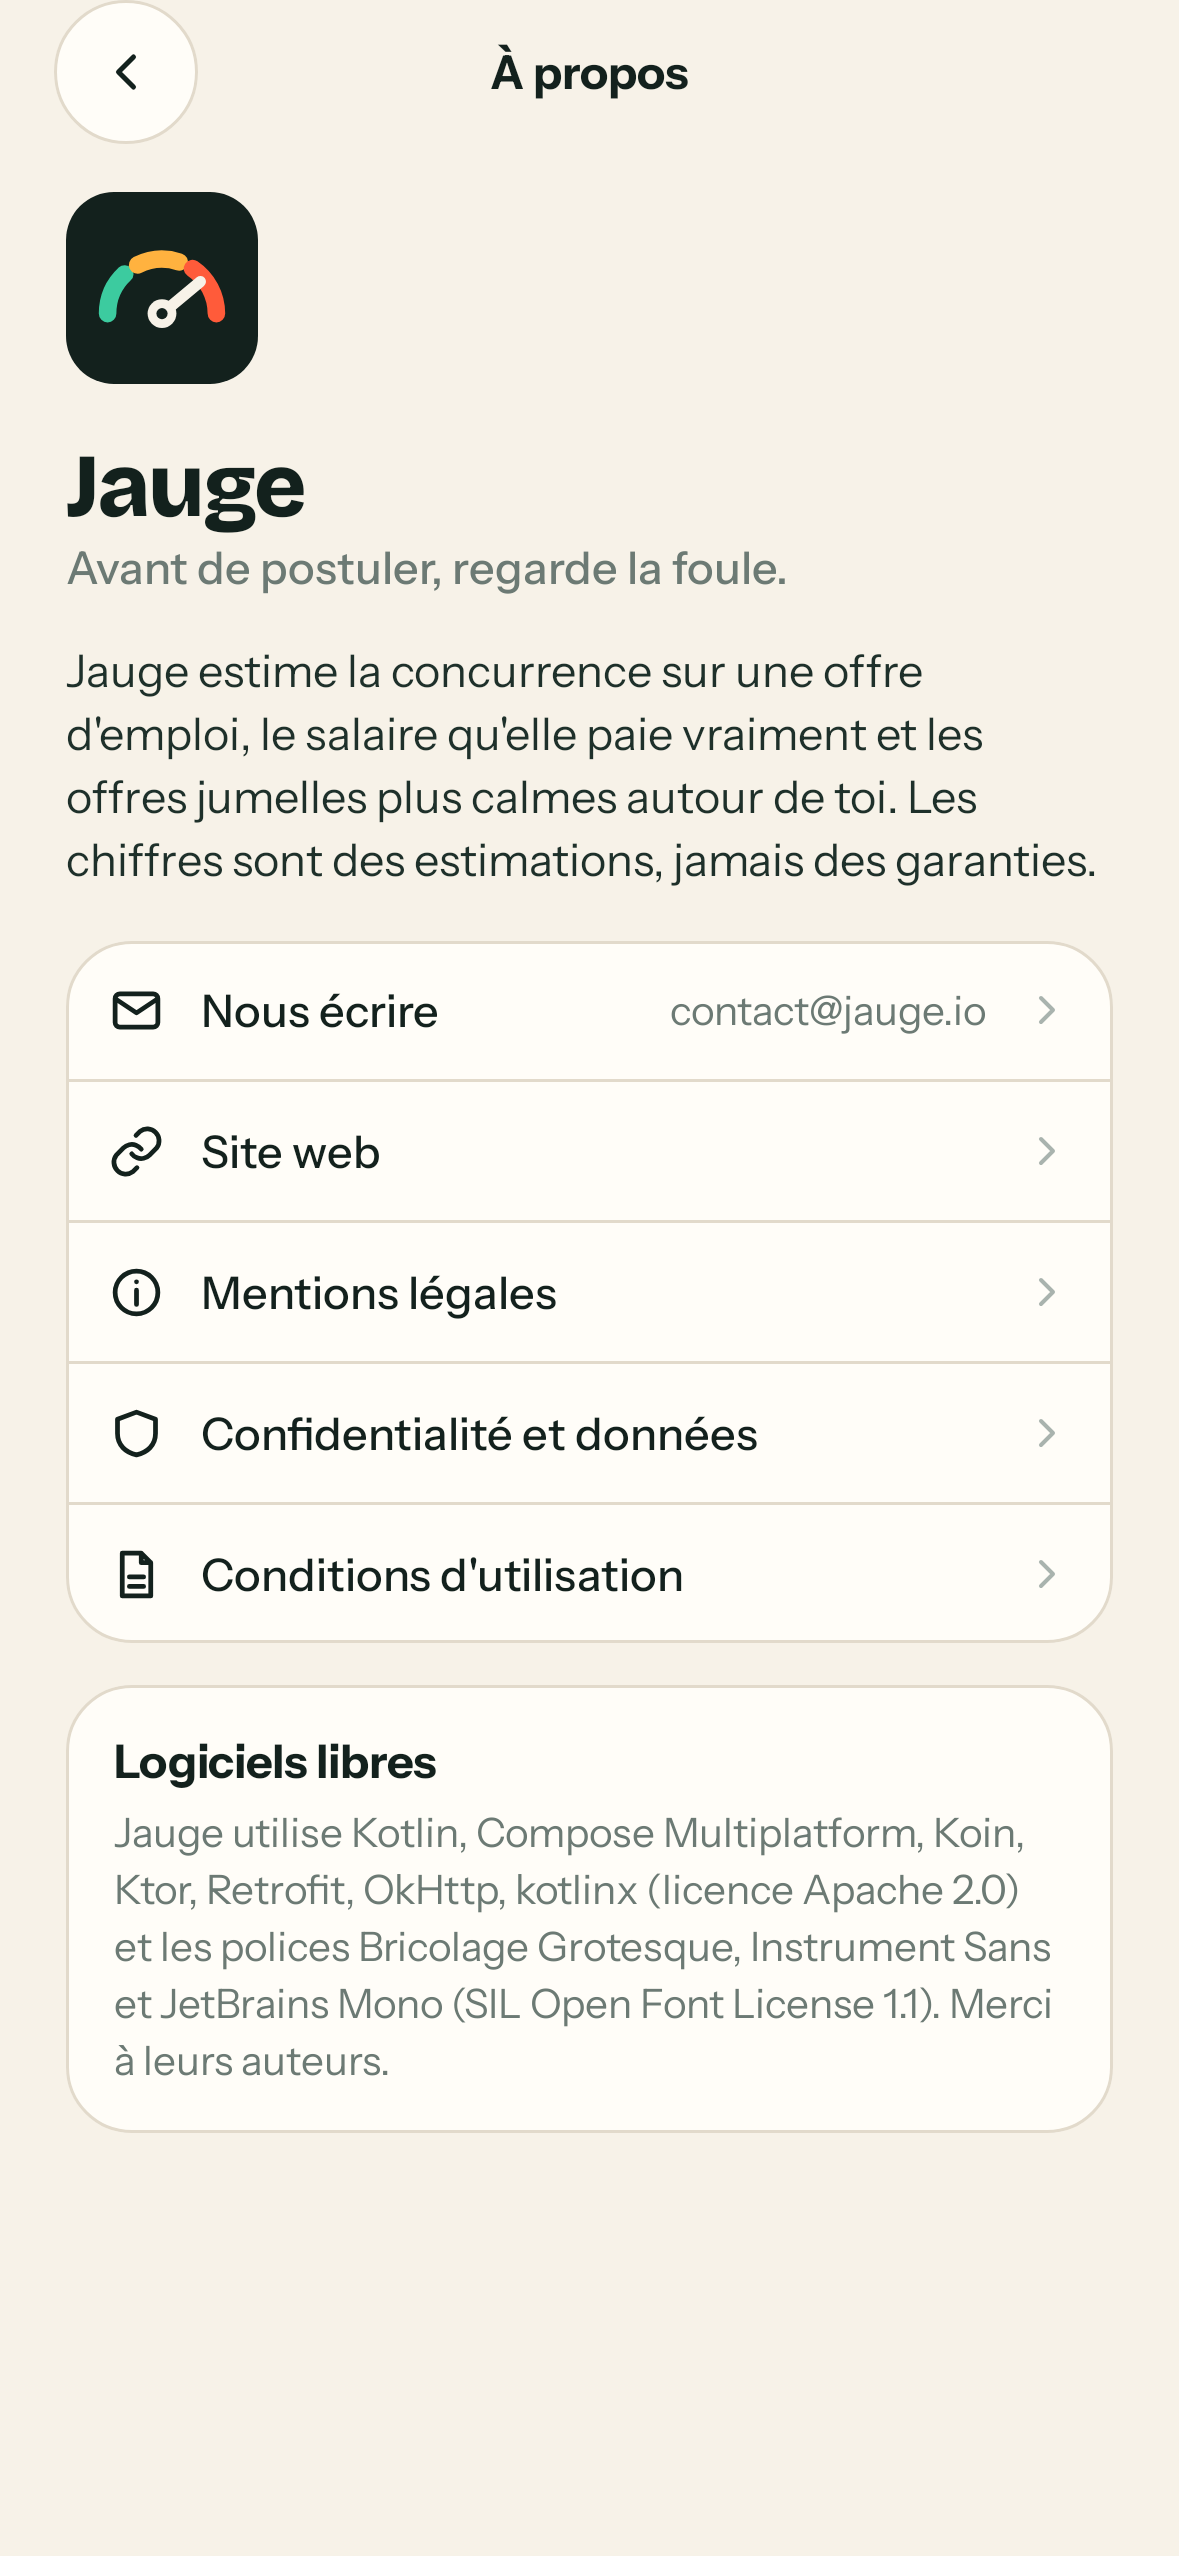
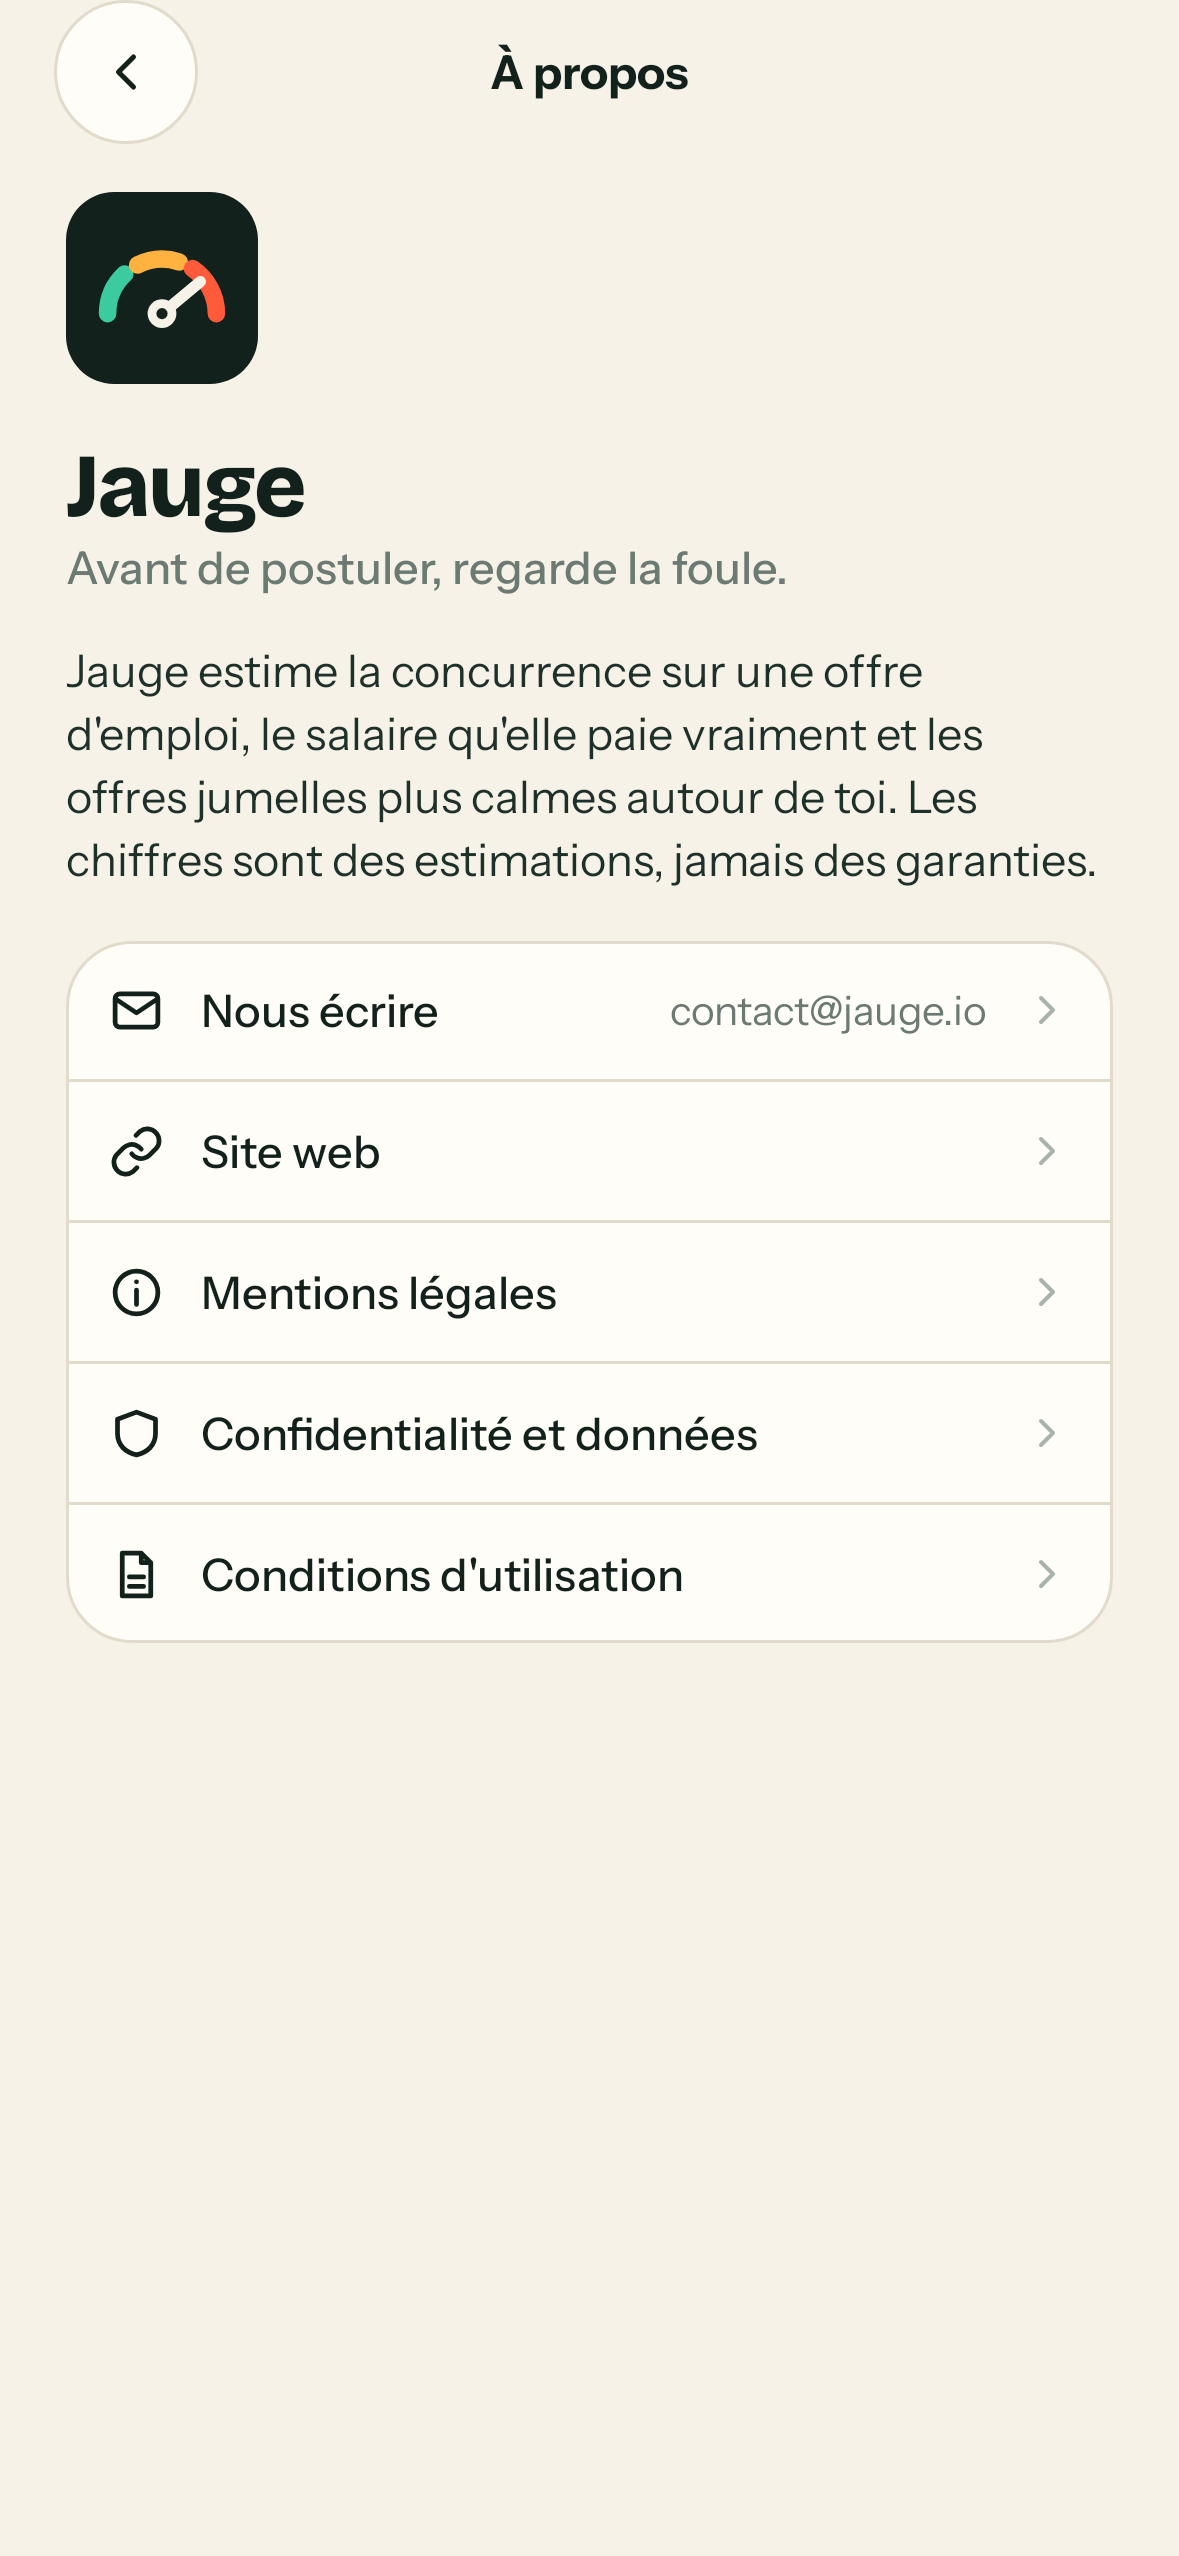
fix: remove technical information from the about screen
The open source licenses card is removed from the about screen and the
notices now ship in a file that is not shown. The about screen shows only
the public version, and the offline indicator no longer mentions the API.

Changed region(s): [[0.0916, 0.68, 0.8855, 0.8345]]

diff --git a/feature/account/src/commonMain/kotlin/io/jauge/feature/account/about/AboutScreen.kt b/feature/account/src/commonMain/kotlin/io/jauge/feature/account/about/AboutScreen.kt
@@ -1,7 +1,6 @@
 package io.jauge.feature.account.about
 
 import androidx.compose.foundation.layout.Column
-import androidx.compose.foundation.layout.fillMaxWidth
 import androidx.compose.foundation.layout.padding
 import androidx.compose.foundation.layout.size
 import androidx.compose.foundation.rememberScrollState
@@ -12,7 +11,6 @@ import androidx.compose.ui.Modifier
 import androidx.compose.ui.platform.LocalUriHandler
 import androidx.compose.ui.text.font.FontWeight
 import androidx.compose.ui.unit.dp
-import io.jauge.core.designsystem.component.JaugeCard
 import io.jauge.core.designsystem.component.JaugeLogo
 import io.jauge.core.designsystem.component.JaugeScreenScaffold
 import io.jauge.core.designsystem.component.RoundIconButton
@@ -25,8 +23,6 @@ import io.jauge.feature.account.resources.Res
 import io.jauge.feature.account.resources.about_app_name
 import io.jauge.feature.account.resources.about_contact
 import io.jauge.feature.account.resources.about_contact_address
-import io.jauge.feature.account.resources.about_licenses_text
-import io.jauge.feature.account.resources.about_licenses_title
 import io.jauge.feature.account.resources.about_tagline
 import io.jauge.feature.account.resources.about_text
 import io.jauge.feature.account.resources.about_title
@@ -40,7 +36,10 @@ import io.jauge.feature.account.resources.profile_terms
 import org.jetbrains.compose.resources.stringResource
 
 /**
- * About Jauge: version, what the app does, contact, legal pages and open source licenses.
+ * About Jauge: version, what the app does, contact and legal pages.
+ *
+ * No technical information is shown here (libraries, build numbers, identifiers): the notices required by the
+ * licenses of the libraries ship with the app in `third_party_notices.txt` (resources of `composeApp`), not on screen.
  *
  * @param onBack back button.
  * @param onOpenLegalNotice legal notice.
@@ -52,7 +51,7 @@ fun AboutScreen(onBack: () -> Unit, onOpenLegalNotice: () -> Unit, onOpenPrivacy
     val colors = JaugeTheme.colors
     val typography = JaugeTheme.typography
     val uriHandler = LocalUriHandler.current
-    val version = rememberAppVersion()
+    val version = displayVersion(rememberAppVersion())
     val contact = stringResource(Res.string.about_contact_address)
     val website = stringResource(Res.string.about_website_address)
     JaugeScreenScaffold(
@@ -94,15 +93,15 @@ fun AboutScreen(onBack: () -> Unit, onOpenLegalNotice: () -> Unit, onOpenPrivacy
                 ),
                 modifier = Modifier.padding(top = 18.dp),
             )
-            JaugeCard(modifier = Modifier.fillMaxWidth().padding(top = 14.dp)) {
-                Text(text = stringResource(Res.string.about_licenses_title), style = typography.bodyStrong, color = colors.textPrimary)
-                Text(
-                    text = stringResource(Res.string.about_licenses_text),
-                    style = typography.bodySmall,
-                    color = colors.textSecondary,
-                    modifier = Modifier.padding(top = 6.dp),
-                )
-            }
         }
     }
 }
+
+/**
+ * Version shown to the user: only the public part of the version name ("1.0" or "1.2.3"), without any build
+ * suffix ("-debug", "+42", " (17)"). Empty when the raw version holds no public part.
+ *
+ * @param rawVersion version name read from the platform.
+ */
+fun displayVersion(rawVersion: String): String =
+    Regex("""^\s*(\d+(?:\.\d+)*)""").find(rawVersion)?.groupValues?.get(1).orEmpty()

diff --git a/feature/account/src/commonTest/kotlin/io/jauge/feature/account/AboutVersionTest.kt b/feature/account/src/commonTest/kotlin/io/jauge/feature/account/AboutVersionTest.kt
@@ -1,0 +1,30 @@
+package io.jauge.feature.account
+
+import io.jauge.feature.account.about.displayVersion
+import kotlin.test.Test
+import kotlin.test.assertEquals
+
+/** The About screen shows only the public version, never a build suffix. */
+class AboutVersionTest {
+    /** Plain versions are kept as they are. */
+    @Test
+    fun keepsPublicVersion() {
+        assertEquals("1.0", displayVersion("1.0"))
+        assertEquals("0.1.0", displayVersion("0.1.0"))
+    }
+
+    /** Build suffixes and internal numbers are removed. */
+    @Test
+    fun removesBuildSuffixes() {
+        assertEquals("1.2.3", displayVersion("1.2.3-debug"))
+        assertEquals("1.2", displayVersion("1.2+42"))
+        assertEquals("2.0", displayVersion("2.0 (17)"))
+    }
+
+    /** A version without a public part is not shown. */
+    @Test
+    fun emptyWhenUnreadable() {
+        assertEquals("", displayVersion(""))
+        assertEquals("", displayVersion("internal"))
+    }
+}

diff --git a/feature/account/src/androidHostTest/kotlin/io/jauge/feature/account/AccountScreenshotTest.kt b/feature/account/src/androidHostTest/kotlin/io/jauge/feature/account/AccountScreenshotTest.kt
@@ -116,6 +116,12 @@ class AccountScreenshotTest {
         JaugeTheme(darkTheme = false) { AboutScreen({}, {}, {}, {}) }
     }
 
+    /** About, dark theme. */
+    @Test
+    fun aboutDark() = capture("a-propos-sombre") {
+        JaugeTheme(darkTheme = true) { AboutScreen({}, {}, {}, {}) }
+    }
+
     @OptIn(ExperimentalResourceApi::class)
     internal fun capture(name: String, content: @Composable () -> Unit) {
         captureRoboImage(filePath = "build/screenshots/$name.png") {

diff --git a/docs/ARCHITECTURE.md b/docs/ARCHITECTURE.md
@@ -224,7 +224,7 @@ offline mode and purchases disabled (`UnavailableBillingClient`), without crash.
 
 `ApiModeController` (core:common) holds the mode. `SwitchingJaugeApi` sends every call to the real client or to
 `OfflineJaugeApi` (core:data), which serves data from the mockups with a simulated latency. An indicator
-("Mode sans API : données d'exemple") is shown at the top of the app while it is on.
+("Données d'exemple", debug builds only) is shown at the top of the app while it is on.
 
 - Build setting: `jauge.api.offlineMode` (on by default while the API does not exist). **Debug builds only**: release
   builds always call the real API, never sign in with `SimulatedAuthenticationRepository` (they use
@@ -272,6 +272,12 @@ The share card (`feature:share`) is rendered by the app from the card drawn on s
 PNG and sent with `NativeSharer`: Android intents with a `FileProvider` declared in the manifest of `feature:share`,
 MediaStore to save it; iOS `UIActivityViewController`, `MFMessageComposeViewController` and the photo album
 (`NSPhotoLibraryAddUsageDescription` in `Info.plist`).
+
+## No technical information on screen
+
+The user never sees technical details: no library names, no build numbers, no internal identifiers. The About screen
+shows only the public version ("Version 1.0", `displayVersion`). The notices required by the licenses of the
+libraries ship with the app in `composeApp/src/commonMain/composeResources/files/third_party_notices.txt`, not shown.
 
 ## Git flow
 
